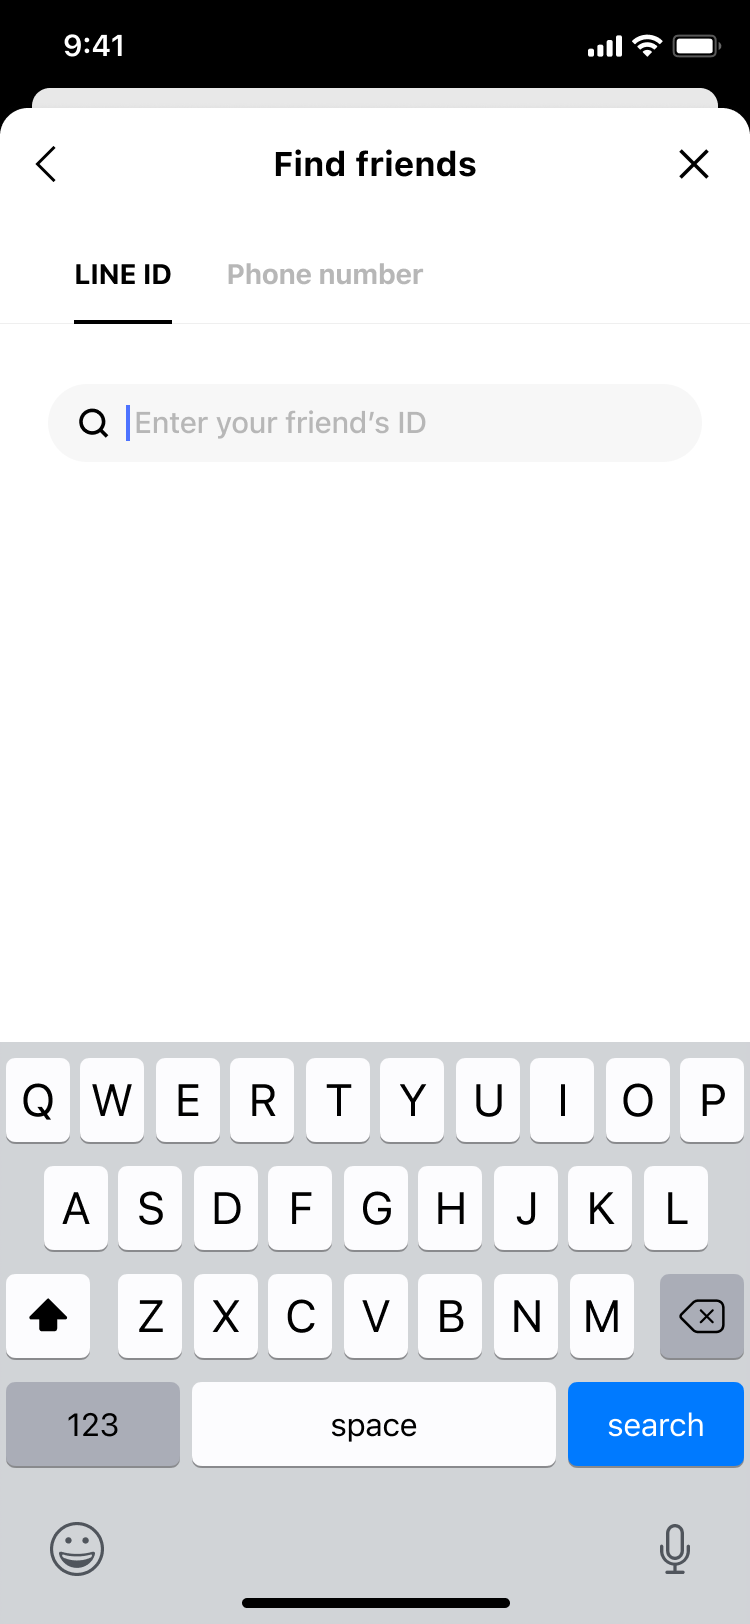
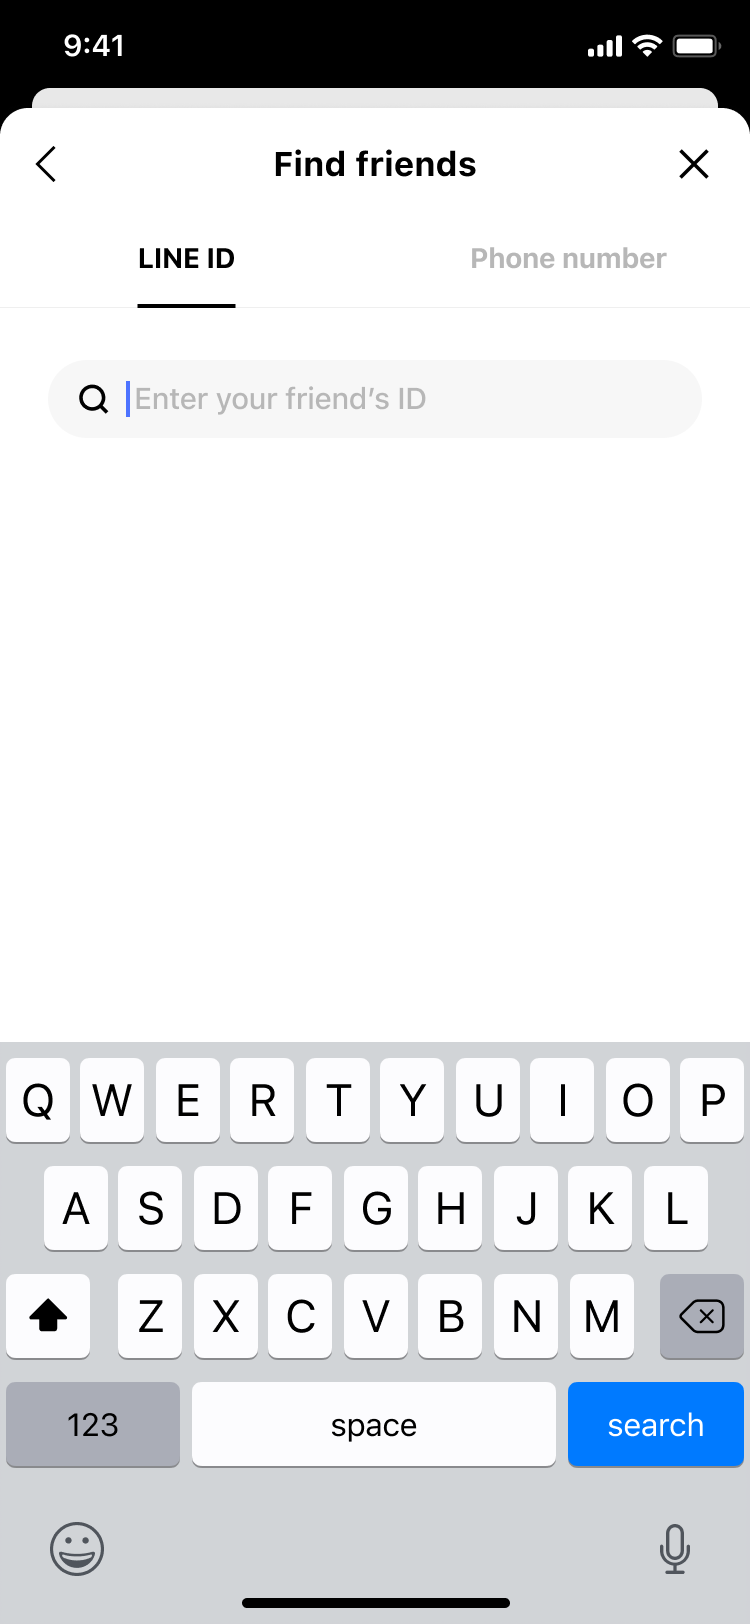
Add Type E-2 (LDS tab scroll version) and update Type E
- Update Type E images and rename to "LDS 탭 (2개 탭 버전)"
- Add Type E-2 prototype and reference section
- E-2 has 5 reference images from existing Type E references
- Update E-2 pros/cons descriptions
- Add E-2-1~E-2-6 prototype images

Changed region(s): [[0.092, 0.1539, 0.552, 0.2155], [0.092, 0.2463, 0.5827, 0.2771], [0.6133, 0.1539, 0.8893, 0.1847]]

diff --git a/index.html b/index.html
@@ -570,19 +570,18 @@
                 <div class="card-header">
                     <div class="best-badge">Best</div>
                     <div class="card-title">Type E</div>
-                    <div class="card-name">미니멀 텍스트 탭</div>
+                    <div class="card-name">LDS 탭 (2개 탭 버전)</div>
                 </div>
                 <img src="E-1.png" alt="Prototype E" class="thumbnail">
                 <div class="pros-cons">
                     <div class="pros">
                         <h4>👍 장점</h4>
                         <ul>
+                            <li>2개 탭만 있어 화면을 꽉 채워 시원한 느낌</li>
                             <li>상단 한 줄에 탭이 정리되어 시선 이동이 가장 짧고 직관적</li>
                             <li>굵기와 밑줄로 선택 상태가 명확해 한 눈에 현재 위치 파악</li>
                             <li>라디오 버튼이나 아이콘 없어 해석 부담이 가장 적음</li>
                             <li>화면 여백이 넓어 고급스럽고 세련된 분위기 연출</li>
-                            <li>검색 아이콘이 입력 필드 안에 있어 공간 효율 최고</li>
-                            <li>불필요한 시각 요소 제거로 콘텐츠에 집중 유도</li>
                         </ul>
                     </div>
                     <div class="cons">
@@ -591,6 +590,33 @@
                             <li>비활성 탭이 회색 텍스트로만 표시되어 구분이 다소 약함</li>
                             <li>터치 영역이 텍스트 크기에 한정되어 오조작 가능성</li>
                             <li>시니어나 디지털 문해력이 낮은 사용자에게 다소 어려울 수 있음</li>
+                        </ul>
+                    </div>
+                </div>
+            </div>
+
+            <!-- Prototype E-2 -->
+            <div class="prototype-card" data-prototype="E-2">
+                <div class="card-header">
+                    <div class="card-title">Type E-2</div>
+                    <div class="card-name">LDS 탭 (스크롤 버전)</div>
+                </div>
+                <img src="E-2-1.png" alt="Prototype E-2" class="thumbnail">
+                <div class="pros-cons">
+                    <div class="pros">
+                        <h4>👍 장점</h4>
+                        <ul>
+                            <li>상단 한 줄에 탭이 정리되어 시선 이동이 가장 짧고 직관적</li>
+                            <li>굵기와 밑줄로 선택 상태가 명확해 한 눈에 현재 위치 파악</li>
+                            <li>라디오 버튼이나 아이콘 없어 해석 부담이 가장 적음</li>
+                            <li>확장성이 뛰어나 탭이 늘어나도 대응 가능</li>
+                        </ul>
+                    </div>
+                    <div class="cons">
+                        <h4>👎 단점</h4>
+                        <ul>
+                            <li>비활성 탭이 회색 텍스트로만 표시되어 구분이 다소 약함</li>
+                            <li>터치 영역이 텍스트 크기에 한정되어 오조작 가능성</li>
                         </ul>
                     </div>
                 </div>
@@ -723,8 +749,13 @@
                 <div class="reference-grid">
                     <div class="reference-card" onclick="openReferenceModal('E')">
                         <div class="reference-card-title">Type E</div>
-                        <div class="reference-card-count">미니멀 텍스트 탭</div>
+                        <div class="reference-card-count">LDS 탭 (2개 탭)</div>
                         <div class="reference-card-badge">24개 화면</div>
+                    </div>
+                    <div class="reference-card" onclick="openReferenceModal('E-2')">
+                        <div class="reference-card-title">Type E-2</div>
+                        <div class="reference-card-count">LDS 탭 (스크롤)</div>
+                        <div class="reference-card-badge">5개 화면</div>
                     </div>
                     <div class="reference-card" onclick="openReferenceModal('A')">
                         <div class="reference-card-title">Type A</div>
@@ -824,7 +855,7 @@
     </div>
 
     <script>
-        const prototypes = ['A', 'B', 'C', 'D', 'E'];
+        const prototypes = ['A', 'B', 'C', 'D', 'E', 'E-2'];
         let currentPrototype = 'A';
         let currentIndex = 0;
         const totalImages = 6;
@@ -916,6 +947,13 @@
                 'eBay iOS 507.png',
                 'Spotify iOS 3883.png',
                 'ClassPass iOS 10794.png'
+            ],
+            'E-2': [
+                'AllTrails iOS 170.png',
+                'Discord iOS 37.png',
+                'eBay iOS 507.png',
+                'Remind iOS 21.png',
+                'TheFork iOS 133.png'
             ]
         };
 
